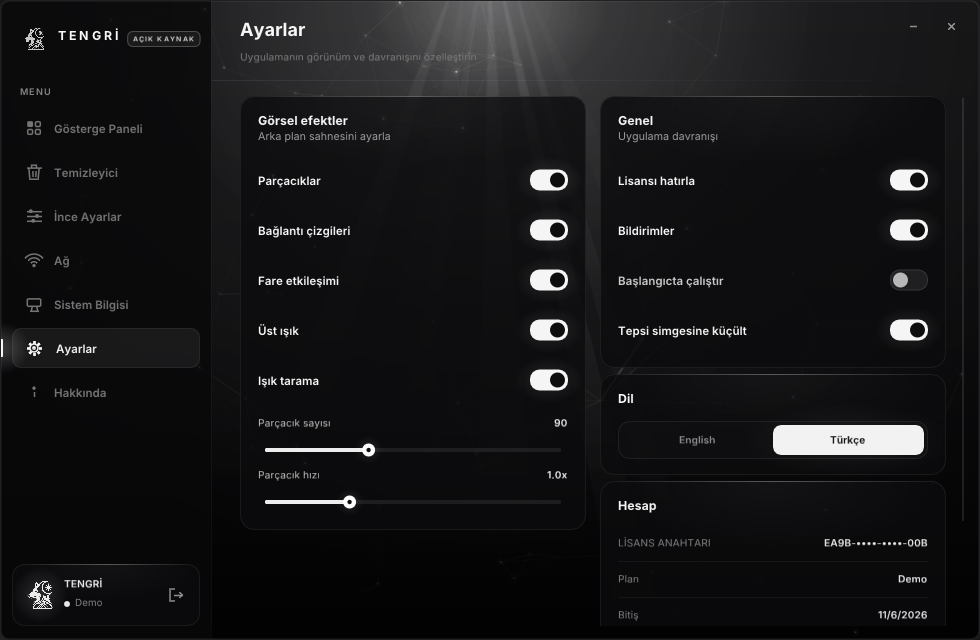
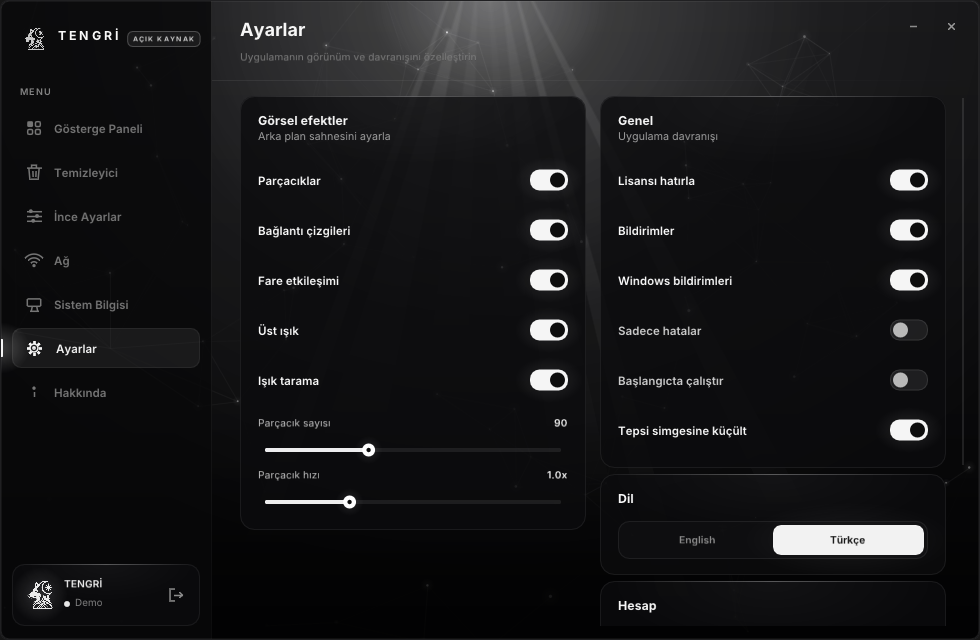
README ve surum notlari guncellendi (1.1.0)
README'de duzeltilen celiskiler:
  - "Guncelleme yok / kurulum yok" deniyordu, ama Windows bildirimleri icin
    ilk calistirmada iki kayit yaziliyor. Artik gizlenmiyor: kapsam disi
    maddesine istisna notu eklendi ve ayri bir "Windows bildirimleri"
    bolumu acildi (uc anahtar, dort dugme, kurulumun ne yazdigi, kapatmanin
    kayitlari silmedigi, Rahatsiz Etmeyin'e dokunulmadigi).
  - Marka degistigi halde "elmas isaret" ve "ucgenlenmis marka silueti"
    yaziyordu. Ikonun res\tengri-logo.png'den uretildigi ve tek sanat
    kaynagi oldugu yazildi; brand_icons'in kapsami netlestirildi
    (yalnizca Hakkinda sayfasi baglanti ikonlari).
  - Hakkinda sayfasindaki "Bildirimler" satiri demo lisans uyarisiydi,
    yanlis anlasiliyordu; "Uyarilar" oldu.
  - Exe boyutu ~1.4 MB -> ~1.5 MB.

v1.0.0.md'de ciddi bir hata vardi: "acilista yonetici yetkisi istiyor"
diyordu, oysa yetki yalnizca ayar uygularken isteniyor. Duzeltildi.

Surum 1.0.0 -> 1.1.0 (src/brand.hpp). docs/release-notes/v1.1.0.md yazildi:
bildirimler, yeni marka kimligi, Inter yazi tipi, kontrast duzeltmesi ve
gecikme grafigindeki bes hata.

Ayarlar ekran goruntusu yenilendi: uc yeni anahtar da gorunuyor.

diff --git a/src/brand.hpp b/src/brand.hpp
@@ -1,4 +1,4 @@
-#pragma once
+#pragma once
 
 // Ürünün kimlik bilgileri tek bir yerde toplanır.
 //
@@ -70,9 +70,9 @@ namespace brand
     // sürümü ikinci bir yere yazmak yerine çalışan dosyadan geri okuduğu için iki
     // değer birbirinden ayrılamaz.
     constexpr const char*    kVersionMajor  = "1";
-    constexpr const char*    kVersionMinor  = "0";
+    constexpr const char*    kVersionMinor  = "1";
     constexpr const char*    kVersionPatch  = "0";
-    constexpr const char*    kVersion       = "1.0.0";
+    constexpr const char*    kVersion       = "1.1.0";
     constexpr const char*    kPublisher     = "TENGRİ Project";
     constexpr const char*    kDescription   = "TENGRİ - System Optimizer";
 

diff --git a/README.md b/README.md
@@ -1,7 +1,7 @@
 # TENGRI — Sistem Optimize Edici
 
 C++ ile yazılmış bir Windows sistem optimize edici. .NET yok, Electron yok — tek bir
-~1.4 MB yerel çalıştırılabilir dosya, DirectX 11 üzerinde çizilen kendi monokrom
+~1.5 MB yerel çalıştırılabilir dosya, DirectX 11 üzerinde çizilen kendi monokrom
 arayüzüyle.
 
 Yazdığı her registry anahtarı kaynakta görünür: 56 anahtarın dokunduğu her yol
@@ -34,8 +34,8 @@ Bu birkaç şeyi **yapmaz**, ve yapmadığını açıkça söylemek bu aracın b
   ya da güvenlik özelliğini kapatmaz, hiçbir dosyayı karantinaya almaz.
 - **Telemetri göndermez.** Lisans ekranı bir demodur; sunucuya hiçbir istek yapılmaz.
   Makine parmak izi hesaplanır ama hiçbir yere gönderilmez.
-- **Güncelleme yok.** Kurulum yok, çalışma zamanında indirme yok, arka planda kendini
-  yenileme yok.
+- **Güncelleme yok.** Çalışma zamanında indirme yok, arka planda kendini yenileme yok.
+  (İlk çalıştırmada tek seferlik iki kayıt yazılır — bkz. [Windows bildirimleri](#windows-bildirimleri).)
 - **Kullanıcı verisini okumaz.** Yalnızca [registry tablosunda](docs/tweaks-registry.md)
   listelenen anahtarlara yazar, temizleyicide de yalnızca kendi kategorilerinin saydığı
   geçici dosyaları siler.
@@ -180,7 +180,7 @@ okurken **hiç sorulmaz**. Ayrıntı: [Yükseltme](#yükseltme).
 | **İnce Ayarlar** | 7 kategori, 56 anahtar; her anahtar başlangıçta registry'den okunur |
 | **Ağ** | Gerçek ICMP gecikme ölçümü, DNS geçişi, bağlantı ayrıntıları, 6 ağ anahtarı |
 | **Sistem Bilgisi** | Donanım, yazılım ve güvenlik ayrıntıları |
-| **Ayarlar** | Görsel efektler, davranış, dil, hesap |
+| **Ayarlar** | Görsel efektler, davranış, dil, hesap, bildirimler |
 | **Hakkında** | Sürüm, lisans, uyarılar, sosyal ve kaynak kod bağlantıları |
 
 ---
@@ -404,7 +404,7 @@ tablolarındadır ve görünürlüğü makul ama yanlış bir sayı, dürüst bi
 |---|---|
 | Görsel efektler | Parçacıklar, bağlantı çizgileri, fare etkileşimi, üst ışık, ışık süpürmesi |
 | Parçacık ayarları | Parçacık sayısı (kaydırıcı), parçacık hızı (çarpan) |
-| Genel | Lisansı hatırla, bildirimler, başlangıçta çalıştır, tepsi simgesine küçült |
+| Genel | Lisansı hatırla, uygulama içi bildirimler, Windows bildirimleri, sadece hatalar, başlangıçta çalıştır, tepsi simgesine küçült |
 | Dil | English / Türkçe — seçim kalıcı olarak saklanır |
 | Hesap | Maskelenmiş lisans anahtarı, plan, bitiş, demo lisans bildirimi, çıkış yap |
 
@@ -417,13 +417,64 @@ tablolarındadır ve görünürlüğü makul ama yanlış bir sayı, dürüst bi
 
 ---
 
+### Windows bildirimleri
+
+Uzun süren işler, yetki hataları ve ayar değişiklikleri Windows'un kendi bildirim
+sistemiyle de haber verilir — uygulama kapalıyken de gelir, Eylem Merkezi'ne düşer.
+
+Üç anahtar birbirinden bağımsızdır:
+
+| Anahtar | Ne kapatır |
+|---|---|
+| Uygulama içi bildirimler | Pencerenin köşesindeki toaster'ları |
+| Windows bildirimleri | Eylem Merkezi'ne düşen toast'ları |
+| Sadece hatalar | İkisini birden — yalnızca hata ve uyarılar geçer |
+
+Gönderilen olaylar: uzun süren işlerin sonucu (optimizasyon, tarama, temizlik, ayar
+uygulama), yetki/hata uyarıları ve ayar değişiklikleri.
+
+Toast'lar düğme taşır:
+
+| Düğme | Davranış |
+|---|---|
+| Sonuçları gör | Uygulamayı açar ve **olayın kendi sayfasına** gider (Temizlik, Ağ, İnce Ayarlar…) |
+| Geri al | **Önce onay ister.** Onaylanmadan registry'ye hiçbir şey yazılmaz |
+| Tekrar dene | Yalnızca gerçekten saklanmış bir iş varsa görünür |
+| Tamam | Sistem düğmesi; uygulamayı açmadan kapatır |
+
+> **Geri al düğmesi:** bildirimden tek tıkla registry'ye dokunmak, o anda hangi
+> pencereye baktığını bilmediğin bir durumda veri kaybı demektir. Bu yüzden düğme
+> önce uygulamayı öne getirir ve onay penceresinde sorar.
+
+**Kurulum.** Windows bildirimleri uygulamayı bir kısayol üzerinden tanır. İlk
+çalıştırmada iki kayıt yazılır ve bir daha dokunulmaz:
+
+```
+HKCU\Software\Classes\AppUserModelId\TENGRI.SystemOptimizer
+%APPDATA%\Microsoft\Windows\Start Menu\Programs\TENGRI.lnk
+```
+
+Kısayol elle silinirse yeniden kurulur. Ayarı kapatmak bu kayıtları silmez.
+
+**Ayarı kapatmak** bildirimleri susturur, kayıtları silmez — bu yüzden tekrar açtığında
+kurulumun baştan yapılması gerekmez.
+
+> Rahatsız Etmeyin ve gece modu Windows'un kendi kararıdır; araç bu ayarların
+> üzerine yazmaz. Sistem susturduğunda susturur, sadece Eylem Merkezi'ne kaydeder.
+
+**Tek örnek.** Toast düğmeleri uygulamayı yeniden başlatarak tetikler (Windows'un
+yapabildiği tek yol bu). Bunun iki pencere açmaması için uygulama tek örnek
+kilitini tutar: ikinci açılış komutu ilk örneğe iletir ve kendini kapatır.
+
+---
+
 ### Hakkında
 
 | Öğe | İçerik |
 |---|---|
 | Kimlik | Ürün adı, sürüm (çalışan exe'nin sürüm kaynağından okunur), lisans |
 | Bağlantılar | Instagram, GitHub ve kaynak kod — gerçek marka siluetli ikonlarla, `ShellExecuteW` ile açılır |
-| Bildirimler | Demo lisans açıklaması ve yönetici yetkisi gerekçesi |
+| Uyarılar | Demo lisans açıklaması ve yönetici yetkisi gerekçesi |
 
 ---
 
@@ -511,8 +562,10 @@ kaynak kodu `1.0.0` diyordu ve sürüm ancak derledikten sonra fark edildi.
 Hakkında sayfası sürümü ikinci bir kopya taşımak yerine `GetFileVersionInfo` ile çalışan
 exe'den geri okuyor. Kod tabanında hiçbir yerde derleme tarihi gömülü değil.
 
-`res\tengri.ico`, `tools/make_icon.ps1` ile üretiliyor; uygulamanın çalışma anında çizdiği
-elmas işaretin geometrisinden çiziyor, böylece ikon ile sidebar logosu ayrışamaz.
+`res\tengri.ico`, `tools/make_icon_from_png.ps1` ile `res\tengri-logo.png`'den üretiliyor.
+Tek sanat kaynağı bu PNG: pencere simgesi, görev çubuğu, tepsi ikonu, giriş ekranı,
+kenar çubuğu ve açılış ekranı hep aynı dosyadan gelir, böylece marka tek yerde
+değiştirilir ve hiçbir yerde ayrışamaz.
 
 ---
 
@@ -526,7 +579,8 @@ src/gui/theme.cpp          Renkler, fontlar, DPI ölçekleme
 src/gui/fx.cpp             Parçacıklar, yıldız geçişi, üst ışık, ışık süpürme
 src/gui/widgets.cpp        Buton, anahtar, onay kutusu, giriş, kaydırıcı, segment, grafik, bildirim
 src/gui/icons.cpp          Vektör ikonlar
-src/gui/brand_icons.cpp    Üçgenlenmiş marka siluetleri (üretilmiş)
+src/gui/logo.cpp           Tek PNG'den yüklenen marka logosu (D3D11 dokusu)
+src/gui/brand_icons.cpp    Hakkında sayfası bağlantı ikonları (üçgenlenmiş, üretilmiş)
 src/core/cleaner.cpp       Dosya taraması ve silme
 src/core/tweaks.cpp        7 tweak kategorisinin registry okuma/yazma işlemleri
 src/core/regpack.cpp       Gömülü .reg gövdeleri + reg.exe ile içe aktarma
@@ -538,11 +592,12 @@ src/core/lang.cpp          İngilizce / Türkçe metin tabloları
 src/core/license.cpp       Demo lisans ekranı
 src/core/elevate.cpp        Yetki yükseltme: runas ile yeniden başlatma, komut satırı kodlama
 src/core/backup.cpp         Uygulama öncesi registry yedeği (reg export) ve geri alma (reg import)
+src/core/notify.cpp         Windows bildirimleri: WinRT toast, AUMID kurulumu, komut ayrıştırma
 src/tray.cpp               Kabuk tray ikonu
 res/tengri.rc              İkon, manifest, VERSIONINFO
 res/app.manifest           Yürütme düzeyi, DPI farkındalığı, işletim sistemi uyumluluğu
 tools/make_icon.ps1        Uygulama ikonunu üretir
-tools/make_brand_icons.ps1 Marka siluetlerini üçgenler ve brand_icons.cpp üretir
+tools/make_brand_icons.ps1 Hakkında sayfası bağlantı ikonlarını üçgenler ve brand_icons.cpp üretir
 tools/make_version.ps1     brand.hpp'den sürüm başlığı üretir (VERSIONINFO kaynağı)
 tools/shoot.ps1            Ekran görüntüsü almak için yardımcı betikler
 tools/make_tweak_table.ps1 tweaks.cpp + regpack.cpp'den registry tablosu ve anahtar başlığı üretir

diff --git a/docs/release-notes/v1.1.0.md b/docs/release-notes/v1.1.0.md
@@ -1,0 +1,86 @@
+## TENGRI 1.1.0
+
+Arayüz yenilendi ve **Windows bildirimleri** geldi. 56 anahtar, 10 temizleme kategorisi
+ve geri alma mekanizması aynı.
+
+### Windows bildirimleri
+
+Uzun süren işler, yetki hataları ve ayar değişiklikleri artık Eylem Merkezi'ne düşer.
+Uygulama kapalıyken de gelir.
+
+**Ayarlarda üç anahtar:**
+
+- **Uygulama içi bildirimler** — pencerenin köşesindeki toaster'lar
+- **Windows bildirimleri** — Eylem Merkezi'ne düşen toast'lar
+- **Sadece hatalar** — ikisini birden susturur, yalnızca hata ve uyarılar geçer
+
+**Toast düğmeleri:**
+
+| Düğme | Davranış |
+|---|---|
+| Sonuçları gör | Uygulamayı açar, olayın kendi sayfasına gider |
+| Geri al | **Önce onay ister** — onaylanmadan registry'ye yazılmaz |
+| Tekrar dene | Yalnızca saklanmış bir iş varsa görünür |
+| Tamam | Sistem düğmesi, uygulamayı açmadan kapatır |
+
+**Kurulum.** İlk çalıştırmada iki kayıt yazılır: `HKCU\...\AppUserModelId` girdisi ve
+Başlat menüsü kısayolu. Ayarı kapatmak kayıtları silmez; kısayol elle silinirse yeniden
+kurulur.
+
+Rahatsız Etmeyin ve gece modu Windows'un kararıdır — üzerine yazılmaz.
+
+### Arayüz
+
+Yeni marka kimliği: kurt logosu artık pencere simgesi, görev çubuğu, tepsi ikonu,
+giriş ekranı, kenar çubuğu ve açılış ekranında kullanılıyor.
+
+Arayüz **Inter** yazı tipine geçti ve exe içine gömüldü — yanında font dosyası olmadan
+da doğru çiziliyor. Üç ağırlık, uygulamanın gerçekten kullandığı karakterlere
+(Basic Latin + Türkçe + noktalama) alt kümelenmiş, toplam 75 KB.
+
+Tipografi ölçeği 19 farklı punto yerine 9 adlandırılmış belirteçe (`theme::size`)
+çöktü ve kontrast düzeltmesi yapıldı: birincil metin ve simgeler WCAG AA eşiğine
+getirildi.
+
+Gecikme grafiğinde beş hata düzeltildi: eksen ölçeği, sahte sıfırlar, örnekleme hızı,
+kayma ve eski ölçüm. Artık yalnızca gerçek ölçümler çiziliyor.
+
+### Düzeltilenler
+
+- Uygulama simgesi `.ico` dosyasındaki başlık bozuktu (`biPlanes`/`biBitCount` WORD
+  olarak yazılıyordu), bazı sistemlerde ikon yüklenmiyordu
+- Tepsi ikonu `hInstance` geçirilmediği için yanlış kaynak okuyordu
+- Ekran görüntüsü aracı odağın gerçekten uygulamada olduğunu doğrulamıyordu
+- Türkçe metin tablosunda kaçış hatası derlemeyi kırıyordu
+
+### Kurulum
+
+`TENGRI.exe` dosyasını indirip çalıştır. Kurulum gerekmez.
+
+### ÖNEMLİ: antivirüs uyarısı
+
+TENGRI `HKEY_LOCAL_MACHINE` altına **yazıyor** ve geçici `.reg` dosyalarını içe
+aktarmak için **`reg.exe` çağırıyor**. Bu ikisi bir "registry temizleyici" zararlı
+yazılımının davranış imzasıdır; sezgisel motorlar imzasız çalıştırılabilirleri
+işaretler. Dosya **imzasızdır**. Ayrıntı: [SECURITY.md](../../SECURITY.md)
+
+Ayar uygularken yönetici yetkisi istenir; açarken ve sistem bilgisi okurken **hiç
+sorulmaz**.
+
+### Bilmen gerekenler
+
+- Ayarları uygulamadan önce **geri yükleme noktası oluştur**.
+- Bazı ayarların etkili olması için yeniden başlatma gerekir.
+- Lisans ekranı bir **demodur**: her anahtarı kabul eder, sunucuya hiçbir doğrulama
+  yapılmaz, hiçbir telemetri yoktur.
+- Makine parmak izi hesaplanır ama **hiçbir yere gönderilmez**.
+
+### Kaynaktan derleme
+
+```bat
+git clone --recurse-submodules https://github.com/Memati8383/Tengri.git
+cd Tengri
+build.bat
+```
+
+Lisans: [MIT](../../LICENSE)

diff --git a/docs/release-notes/v1.0.0.md b/docs/release-notes/v1.0.0.md
@@ -36,10 +36,13 @@ Google / Quad9 / Otomatik), bağlantı ayrıntıları, 6 ağ anahtarı.
 
 ### ÖNEMLİ: antivirüs uyarısı
 
-TENGRI açılışta **yönetici yetkisi istiyor**, `HKEY_LOCAL_MACHINE` altına **yazıyor** ve
-geçici `.reg` dosyalarını içe aktarmak için **`reg.exe` çağırıyor**. Bu üçü birden, bir
-"registry temizleyici / optimizer" zararlı yazılımının davranış imzasıdır; bu yüzden
-sezgisel antivirüs motorları imzasız çalıştırılabilirleri işaretler.
+TENGRI `HKEY_LOCAL_MACHINE` altına **yazıyor** ve geçici `.reg` dosyalarını içe aktarmak
+için **`reg.exe` çağırıyor**. Bu ikisi birden, bir "registry temizleyici / optimizer"
+zararlı yazılımının davranış imzasıdır; bu yüzden sezgisel antivirüs motorları imzasız
+çalıştırılabilirleri işaretler.
+
+> Yönetici yetkisi **açılışta istenmez** — yalnızca ayar uygularken, ve o zaman UAC
+> bir kez sorulur.
 
 Bu TENGRI'ye özgü bir sorun değil, bu tür araçların doğal sonucu. Dosya **imzasızdır**.
 
